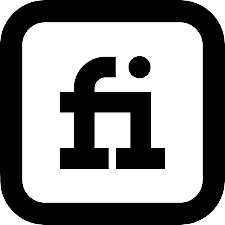
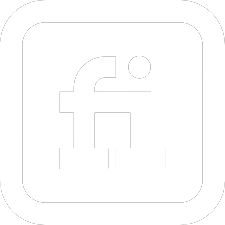
color

diff --git a/pay2.html b/pay2.html
@@ -234,8 +234,11 @@ display: none;
 <div class="social">
   <a href="https://www.instagram.com/_piyush_8_3_3/" target="blank"><li><img src="img/l.png" alt=""></li></a> 
  <a href="https://www.linkedin.com/in/piyush-singh-403089221/" target="blank"><li><img src="img/k.png" alt=""></li></a> 
- <a href="https://www.fiverr.com/piyushsingh7833?up_rollout=true" target="blank"><li class="i"><img src="img/f.png" alt=""></li></a> 
+ <a href="https://www.fiverr.com/piyushsingh7833?up_rollout=true" target="blank"><li ><img src="img/f.png" alt=""></li></a> 
 </div>
+<div class="c">
+  Copyright &COPY; Piyush all rights reserved
+  </div>
 </footer>
 <!-- <button id="rzp-button1" class="btn">Pay with Razorpay</button>
 <script src="https://checkout.razorpay.com/v1/checkout.js"></script>

diff --git a/contact.html b/contact.html
@@ -101,8 +101,11 @@
                         <a href="https://www.linkedin.com/in/piyush-singh-403089221/" target="blank">
                             <li><img src="img/k.png" alt=""></li>
                         </a>
-                        <a href="https://www.fiverr.com/piyushsingh7833?up_rollout=true" target="blank"><li class="i"><img src="img/f.png" alt=""></li></a> 
+                        <a href="https://www.fiverr.com/piyushsingh7833?up_rollout=true" target="blank"><li ><img src="img/f.png" alt=""></li></a> 
                     </div>
+                    <div class="c">
+                        Copyright &COPY; Piyush all rights reserved
+                        </div>
                 </footer>
             </div>
         </div>

diff --git a/services.html b/services.html
@@ -79,7 +79,10 @@
         <div class="social">
             <a href="https://www.instagram.com/_piyush_8_3_3/" target="blank"><li><img src="img/l.png" alt=""></li></a> 
            <a href="https://www.linkedin.com/in/piyush-singh-403089221/" target="blank"><li><img src="img/k.png" alt=""></li></a> 
-           <a href="https://www.fiverr.com/piyushsingh7833?up_rollout=true" target="blank"><li class="i"><img src="img/f.png" alt=""></li></a> 
+           <a href="https://www.fiverr.com/piyushsingh7833?up_rollout=true" target="blank"><li ><img src="img/f.png" alt=""></li></a> 
         </div>
+        <div class="c">
+            Copyright &COPY; Piyush all rights reserved
+            </div>
         </footer>
         </html>

diff --git a/skills.html b/skills.html
@@ -73,7 +73,10 @@
     <div class="social">
         <a href="https://www.instagram.com/_piyush_8_3_3/" target="blank"><li><img src="img/l.png" alt=""></li></a> 
        <a href="https://www.linkedin.com/in/piyush-singh-403089221/" target="blank"><li><img src="img/k.png" alt=""></li></a> 
-       <a href="https://www.fiverr.com/piyushsingh7833?up_rollout=true" target="blank"><li class="i"><img src="img/f.png" alt=""></li></a> 
+       <a href="https://www.fiverr.com/piyushsingh7833?up_rollout=true" target="blank"><li> <img src="img/f.png" alt=""></li></a> 
     </div>
+    <div class="c">
+        Copyright &COPY; Piyush all rights reserved
+        </div>
     </footer>
     </html>

diff --git a/thank.html b/thank.html
@@ -122,7 +122,10 @@ text-decoration: none;
 <div class="social">
     <a href="https://www.instagram.com/_piyush_8_3_3/" target="blank"><li><img src="img/l.png" alt=""></li></a> 
    <a href="https://www.linkedin.com/in/piyush-singh-403089221/" target="blank"><li><img src="img/k.png" alt=""></li></a> 
-   <a href="https://www.fiverr.com/piyushsingh7833?up_rollout=true" target="blank"><li class="i"><img src="img/f.png" alt=""></li></a> 
+   <a href="https://www.fiverr.com/piyushsingh7833?up_rollout=true" target="blank"><li ><img src="img/f.png" alt=""></li></a> 
 </div>
+<div class="c">
+    Copyright &COPY; Piyush all rights reserved
+    </div>
 </footer>
 </html>

diff --git a/work.html b/work.html
@@ -73,7 +73,10 @@
 <div class="social">
     <a href="https://www.instagram.com/_piyush_8_3_3/" target="blank"><li><img src="img/l.png" alt=""></li></a> 
    <a href="https://www.linkedin.com/in/piyush-singh-403089221/" target="blank"><li><img src="img/k.png" alt=""></li></a> 
-   <a href="https://www.fiverr.com/piyushsingh7833?up_rollout=true" target="blank"><li class="i"><img src="img/f.png" alt=""></li></a> 
+   <a href="https://www.fiverr.com/piyushsingh7833?up_rollout=true" target="blank"><li ><img src="img/f.png" alt=""></li></a> 
 </div>
+<div class="c">
+    Copyright &COPY; Piyush all rights reserved
+    </div>
 </footer>
 </html>

diff --git a/index.html b/index.html
@@ -52,7 +52,7 @@
 <div class="social">
     <a href="https://www.instagram.com/_piyush_8_3_3/" target="blank"><li><img src="img/l.png" alt=""></li></a> 
    <a href="https://www.linkedin.com/in/piyush-singh-403089221/" target="blank"><li><img src="img/k.png" alt=""></li></a> 
-   <a href="https://www.fiverr.com/piyushsingh7833?up_rollout=true" target="blank"><li class="i"><img src="img/f.png" alt=""></li></a> 
+   <a href="https://www.fiverr.com/piyushsingh7833?up_rollout=true" target="blank"><li ><img src="img/f.png" alt=""></li></a> 
 </div>
 <div class="c">
 Copyright &COPY; Piyush all rights reserved

diff --git a/footer.css b/footer.css
@@ -24,14 +24,10 @@ text-decoration: none;
 .footer img:hover{
 /* border-radius: 1em; */
 transform: scale(1.1);
--webkit-filter: invert(1);
-filter: invert(1);
+/* -webkit-filter: invert(1);
+filter: invert(1); */
+filter: grayscale(100%) brightness(40%) sepia(100%) hue-rotate(-50deg) saturate(600%) contrast(0.8);
 }
-.i img{
-    -webkit-filter: invert(1);
-filter: invert(1);
-}
-
 .footer img{
     margin-right:4vw;
     margin-left:4vw;
@@ -39,9 +35,9 @@ filter: invert(1);
     width:40px;
     align-items: center;
 }
-/* .c{
- text-align: ;
-} */
+.c{
+margin-top: 10vh;
+}
 
 
 
